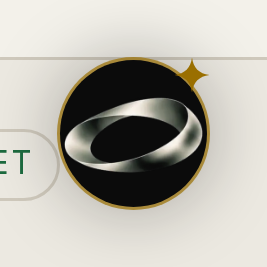
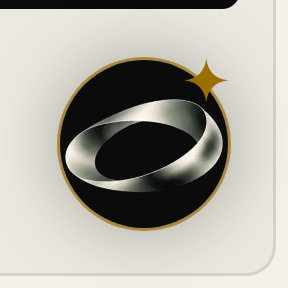
feat: bigger ask hume ai button

diff --git a/apps/web/src/components/AiAssistant.tsx b/apps/web/src/components/AiAssistant.tsx
@@ -111,12 +111,12 @@ export function AiAssistant() {
         title="Ask HUME AI"
         onClick={() => setOpen(true)}
         className={cn(
-          "group fixed right-4 z-20 grid size-14 place-items-center rounded-full bg-charcoal shadow-accent-glow ring-1 ring-gold/70 transition-shadow duration-150 hover:ring-2 hover:ring-gold focus-visible:ring-2 focus-visible:ring-gold lg:bottom-6 lg:right-6",
+          "group fixed right-4 z-20 grid size-16 place-items-center rounded-full bg-charcoal shadow-accent-glow ring-1 ring-gold/70 transition-shadow duration-150 hover:ring-2 hover:ring-gold focus-visible:ring-2 focus-visible:ring-gold lg:bottom-6 lg:right-6",
           barBelow ? "bottom-20" : "bottom-4",
         )}
       >
-        <Image src={mark} alt="" className="h-8 w-auto transition-transform duration-150 group-hover:rotate-90 group-focus-visible:rotate-90" />
-        <svg aria-hidden="true" viewBox="0 0 24 24" className="absolute -right-0.5 -top-0.5 size-4 fill-gold">
+        <Image src={mark} alt="" className="h-9 w-auto transition-transform duration-150 group-hover:rotate-90 group-focus-visible:rotate-90" />
+        <svg aria-hidden="true" viewBox="0 0 24 24" className="absolute -right-0.5 -top-0.5 size-5 fill-gold">
           <path d="M12 2C12.8 8 16 11.2 22 12C16 12.8 12.8 16 12 22C11.2 16 8 12.8 2 12C8 11.2 11.2 8 12 2Z" />
         </svg>
       </button>

diff --git a/docs/evidence/testnet.md b/docs/evidence/testnet.md
@@ -300,3 +300,4 @@ Read-only explainer in the market header ("Ask HUME AI"). Setup, tools, limits a
 - **Floating button on every app page (2026-10-15):** it was inside the terminal header and only drew once a market had loaded, so with the market list not loading (for example the header on Mainnet against an API that refuses localhost) there was no button. It now lives in `AppShell`: every page except the landing page, with or without a market (no market means the assistant answers about any listed market). Checked at 375 px and 1440 px on `/perpetuals`, `/perpetuals` in Mainnet mode, `/markets`, `/news`; absent on `/` by design. Above the pinned bar on the two phone terminals only.
 - **HUME AI mark (2026-10-15):** the button carries a four-point star with two small gold sparks (the palette's `gold`, same as the watchlist star) and a gold hairline ring. It turns a quarter in 150 ms on hover or keyboard focus, and not at all under reduced motion. No new colour, radius or font. Light and dark: `ai-mark-light.png`, `ai-mark-dark.png`; `scripts/e2e-ai.mjs` and `check-hex.sh` pass.
 - **Round mark (2026-10-15):** the button is a circle (56 px nominal, 49 px at this app's root size, above the 44 px rule) holding the HUME ring, on `charcoal` in both themes because the ring is pale metal, with a gold hairline ring and one small gold spark. Its name is "Ask HUME AI" (`aria-label` and `title`). The ring turns a quarter in 150 ms on hover or focus, none under reduced motion. `ai-mark-light.png`, `ai-mark-dark.png`, `ai-mark-375.png` replace the earlier pill; `e2e-ai.mjs` and `check-hex.sh` pass.
+- **Bigger round mark (2026-10-15):** 56 px on screen (was 49), logo and spark scaled with it. 21 px from the corner at 1440 px, above the pinned bar at 375 px. `e2e-ai.mjs` passes.
